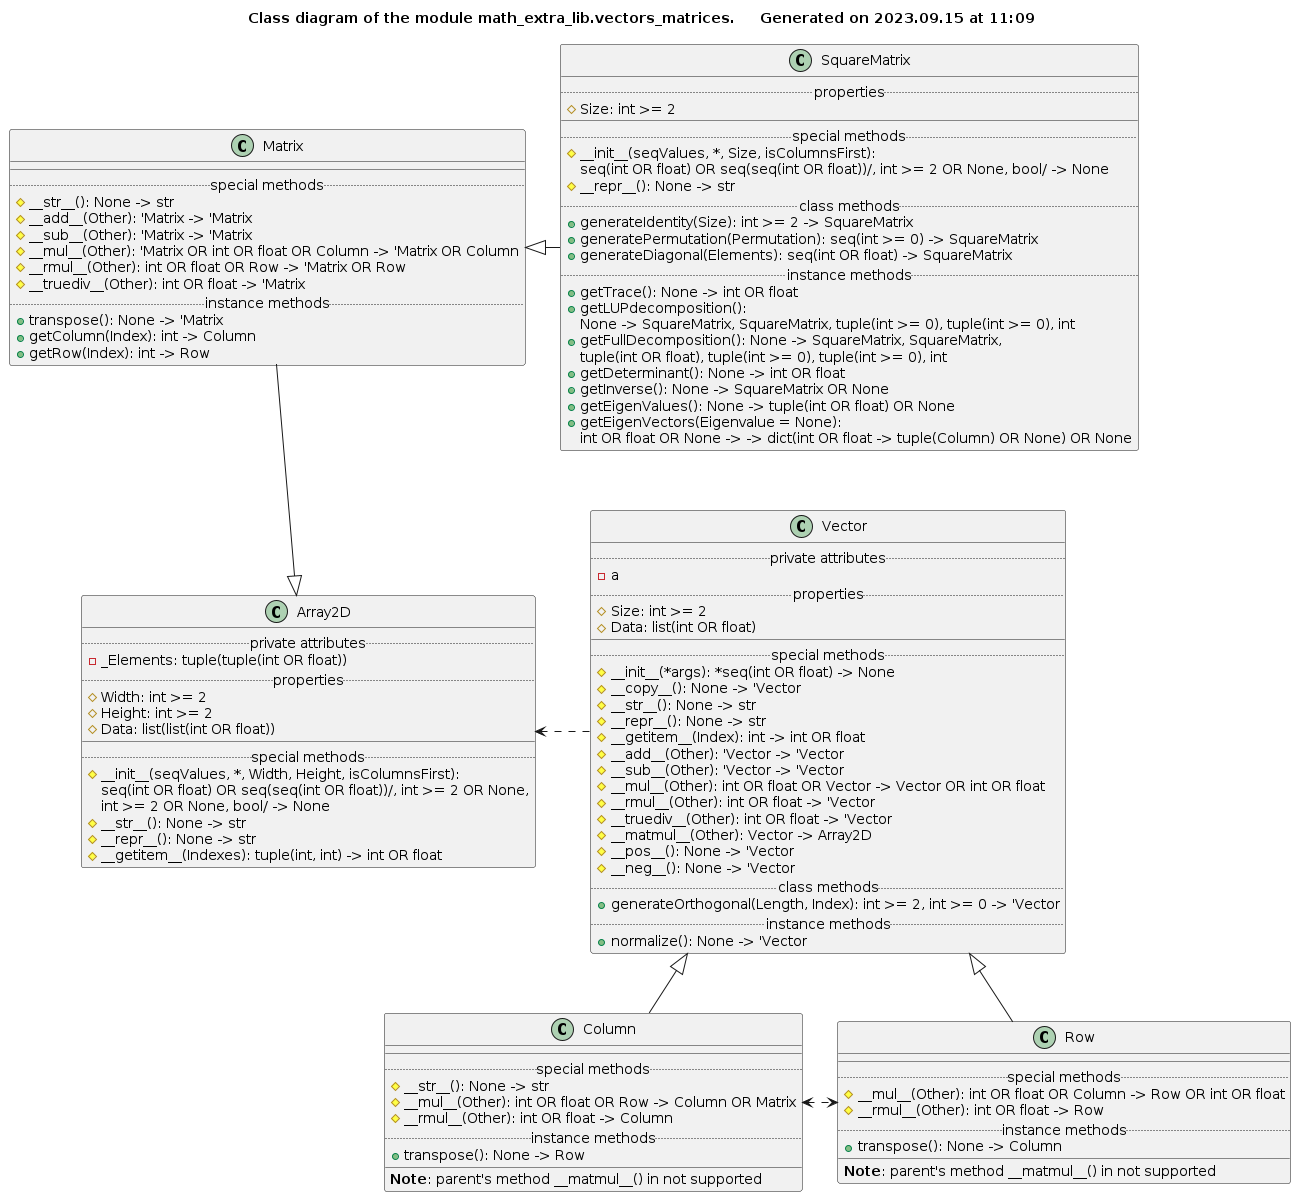
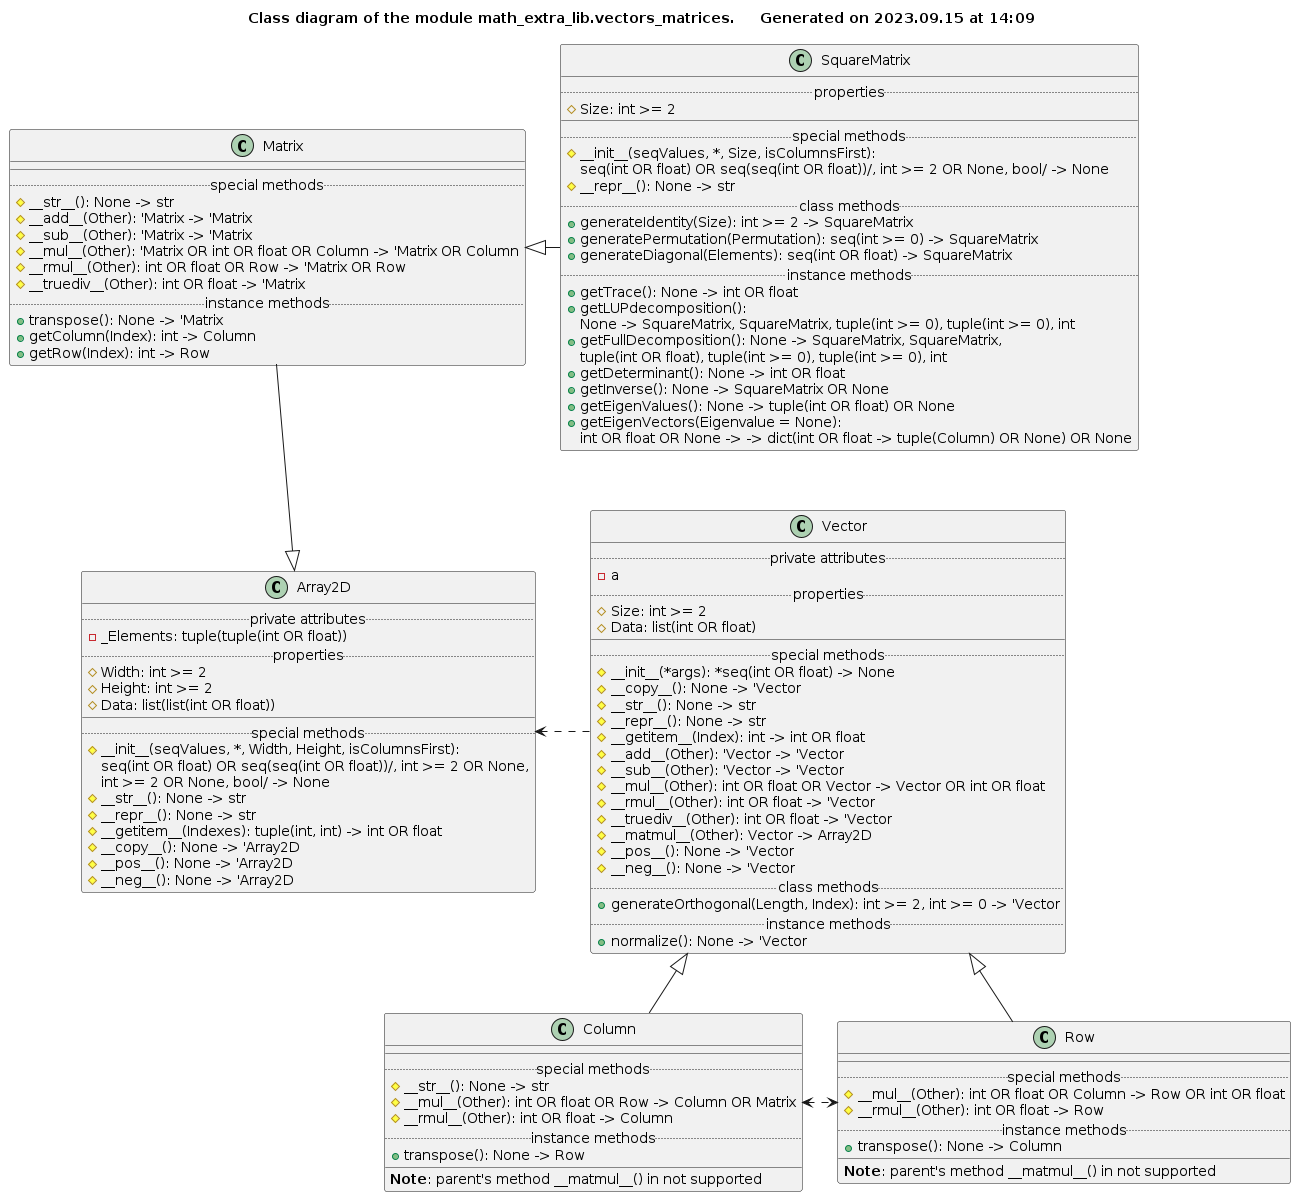
shallow copy, unary plus and minus for matrices

Changed region(s): [[0.0617, 0.4637, 0.4012, 0.7419], [0.3086, 0.68, 0.3395, 0.7419]]

diff --git a/Tests/UT003_vectors_matrices.py b/Tests/UT003_vectors_matrices.py
@@ -6,7 +6,7 @@ Implements unit testing of the module math_extra_lib.vectors_matrices, see TE003
 """
 
 __version__ = "1.0.0.0"
-__date__ = "07-09-2023"
+__date__ = "15-09-2023"
 __status__ = "Testing"
 
 #imports
@@ -1806,6 +1806,57 @@ class Test_Array2D(unittest.TestCase):
                 with self.assertRaises(TypeError):
                     self.TestObject[Col, Row] = 5
                 self.assertListEqual(self.TestObject.Data, Data)
+    
+    def test_copy(self):
+        """
+        Testing the shallow copy of a matrix.
+        """
+        New = copy.copy(self.TestObject)
+        self.assertIs(New.__class__, self.TestClass)
+        self.assertIsNot(New, self.TestObject)
+        self.assertEqual(New.Width, self.TestObject.Width)
+        self.assertEqual(New.Height, self.TestObject.Height)
+        self.assertListEqual(New.Data, self.TestObject.Data)
+        del New
+    
+    def test_pos(self):
+        """
+        Checks the implementation of the unitary plus operation.
+        
+        Test ID: TEST-T-30B
+
+        Covers requirements: REQ-FUN-306
+        """
+        Data = list(self.TestObject.Data)
+        New = +self.TestObject
+        self.assertIs(New.__class__, self.TestClass)
+        self.assertIsNot(New, self.TestObject)
+        self.assertEqual(New.Width, self.TestObject.Width)
+        self.assertEqual(New.Height, self.TestObject.Height)
+        self.assertListEqual(New.Data, Data)
+        self.assertListEqual(self.TestObject.Data, Data)
+        del New
+    
+    def test_neg(self):
+        """
+        Checks the implementation of the unitary negation operation.
+        
+        Test ID: TEST-T-30B
+
+        Covers requirements: REQ-FUN-306
+        """
+        Data = list(self.TestObject.Data)
+        New = -self.TestObject
+        self.assertIs(New.__class__, self.TestClass)
+        self.assertIsNot(New, self.TestObject)
+        self.assertEqual(New.Width, self.TestObject.Width)
+        self.assertEqual(New.Height, self.TestObject.Height)
+        self.assertListEqual(self.TestObject.Data, Data)
+        for Column in range(self.TestObject.Width):
+            for Row in range(self.TestObject.Height):
+                self.assertEqual(New[Column, Row],
+                                                -self.TestObject[Column, Row])
+        del New
     
 class Test_Matrix(Test_Array2D):
     """

diff --git a/vectors_matrices.py b/vectors_matrices.py
@@ -15,7 +15,7 @@ Classes:
 """
 
 __version__= '1.0.0.0'
-__date__ = '07-09-2023'
+__date__ = '15-09-2023'
 __status__ = 'Production'
 
 #imports
@@ -591,6 +591,52 @@ class Array2D:
             raise UT_ValueError(Column, f'in range [{-Height}, {Height - 1}]',
                                                                 SkipFrames = 1)
         return self._Elements[Row][Column]
+    
+    def __copy__(self) -> TArray:
+        """
+        Magic method to hook the shallow copying.
+        
+        Signature:
+            None -> 'Array2D
+        
+        Returns:
+            'Array2D: another instance of the same class with the identical
+                elements
+        
+        Version 1.0.0.0
+        """
+        return self.__class__(self._Elements)
+    
+    def __pos__(self) -> TArray:
+        """
+        Magic method to hook the unitary plus operation.
+        
+        Signature:
+            None -> 'Array2D
+        
+        Returns:
+            'Array2D: another instance of the same class with the identical
+                elements
+        
+        Version 1.0.0.0
+        """
+        return self.__class__(self._Elements)
+    
+    def __neg__(self) -> TArray:
+        """
+        Magic method to hook the unitary plus operation.
+        
+        Signature:
+            None -> 'Array2D
+        
+        Returns:
+            'Array2D: another instance of the same class with the identical
+                elements
+        
+        Version 1.0.0.0
+        """
+        return self.__class__([[-Value for Value in Item]
+                                                    for Item in self._Elements])
     
     #public properties
     

diff --git a/Documentation/References/UD003_vectors_matrices_reference.md b/Documentation/References/UD003_vectors_matrices_reference.md
@@ -1,0 +1,80 @@
+# Module math_extra_lib.vectors_matrices Reference
+
+## Scope
+
+This document describes the intended usage, design and implementation of the functionality implemented in the module **vectors_matrices** of the library **math\_extra\_lib**. The API reference is also provided.
+
+The functional objects covered in this document are:
+
+* class **Array2D**
+* class **Vector**
+* class **Column**
+* class **Row**
+* class **Matrix**
+* class **SquareMatrix**
+
+## Intended Use and Functionality
+
+| Operation                   | Requirements / Limitations | Result       |
+| --------------------------- | -------------------------- | ------------ |
+| Vector + Vector             | S1 = S2                    | Vector       |
+| Vector - Vector             | S1 = S2                    | Vector       |
+| Vector * scalar             | N.A.                       | Vector       |
+| scalar * Vector             | N.A.                       | Vector       |
+| Vector / scalar             | scalar <> 0                | Vector       |
+| Vector * Vector             | S1 = S2                    | scalar       |
+| Vector @ Vector             | N. A.                      | Array2D      |
+| Column + Column             | S1 = S2                    | Column       |
+| Column - Column             | S1 = S2                    | Column       |
+| Column * scalar             | N.A.                       | Column       |
+| scalar * Column             | N.A.                       | Column       |
+| Column / scalar             | scalar <> 0                | Column       |
+| Row * Column                | S1 = S2                    | scalar       |
+| Column * Row                | N.A.                       | Matrix       |
+| Row + Row                   | S1 = S2                    | Row          |
+| Row - Row                   | S1 = S2                    | Row          |
+| scalar * Row                | N.A.                       | Row          |
+| Row * scalar                | N.A.                       | Row          |
+| Row / scalar                | scalar <> 0                | Row          |
+| Matrix + Matrix             | W1 = W2 and H1 = H2        | Matrix       |
+| Matrix + SquareMatrix       | W1 = H1 = S2               | SquareMatrix |
+| SquareMatrix + Matrix       | S1 = W2 = H2               | SquareMatrix |
+| Matrix - Matrix             | W1 = W2 and H1 = H2        | Matrix       |
+| Matrix - SquareMatrix       | W1 = H1 = S2               | SquareMatrix |
+| SquareMatrix - Matrix       | S1 = W2 = H2               | SquareMatrix |
+| scalar * Matrix             | N.A.                       | Matrix       |
+| Matrix * scalar             | N.A.                       | Matrix       |
+| Matrix / scalar             | scalar <> 0                | Matrix       |
+| Matrix * Column             | W1 = S2                    | Column       |
+| Row * Matrix                | S1 = H2                    | Row          |
+| Matrix * Matrix             | W1 = H2 AND H1 <> W1       | Matrix       |
+| Matrix * Matrix             | W1 = H2 AND H1 = W1        | SquareMatrix |
+| Matrix * SquareMatrix       | W1 = S2 AND H1 <> S2       | Matrix       |
+| Matrix * SquareMatrix       | W1 = S2 AND H1 = S2        | SquareMatrix |
+| SquareMatrix * Matrix       | S1 = H2 AND S1 <> W2       | Matrix       |
+| SquareMatrix * Matrix       | S1 = H2 AND S1 = W2        | SquareMatrix |
+| SquareMatrix + SquareMatrix | S1 = S2                    | SquareMatrix |
+| SquareMatrix - SquareMatrix | S1 = S2                    | SquareMatrix |
+| SquareMatrix * scalar       | N.A.                       | SquareMatrix |
+| scalar * SquareMatrix       | N.A.                       | SquareMatrix |
+| SquareMatrix / scalar       | scalar <> 0                | SquareMatrix |
+| SquareMatrix * Column       | S1 = S2                    | Column       |
+| Row * SquareMatrix          | S1 = S2                    | Row          |
+
+## Design and Implementation
+
+![Class diagram](..\UML\vectors_matrices\vectors_matrices_classes.png)
+
+## API Reference
+
+### Class Array2D
+
+### Class Vector
+
+### Class Column
+
+### Class Row
+
+### Class Matrix
+
+### Class SquareMatrix

diff --git a/Documentation/References/UD001_polynomial_reference.md b/Documentation/References/UD001_polynomial_reference.md
@@ -1,4 +1,4 @@
-# Module math_extra_lib Reference
+# Module math_extra_lib.polynomial Reference
 
 ## Scope
 
@@ -106,7 +106,7 @@ An instance of this class supports index access to the individual coefficients (
 
 An instance is also callable returning the value of the polynomial at the passed value of the argument.
 
-__*Instantiation*__:
+***Instantiation***:
 
 \_\_**init**\_\_(*args)
 
@@ -127,11 +127,11 @@ __*Instantiation*__:
 
 Stores the passed coefficients in an internal state. All passed arguments must be real numbers, which are treated as the polynomial coefficients sorted in the ascending order of the power. The last positional argument must be non-zero.
 
-__*Attributes*__:
+***Attributes***:
 
 *Degree*: read-only property, **int** >= 1 - the degree of the polynomial
 
-__*Class methods*__:
+***Class methods***:
 
 **fromRoots**(*args)
 
@@ -152,9 +152,9 @@ __*Class methods*__:
 
 Creates a polynomial from its roots, i.e. performs the inverse of the factorization: (x-x_1)\*...\*(x-x_N) -> a_0 + a_1 \* x + a_2 \* x^2 + ... + a_N * x^N.
 
-__*Methods*__:
+***Methods***:
 
-**getCoefficients()**
+**getCoefficients**()
 
 *Signature*:
 
@@ -226,7 +226,7 @@ Implementation of a rational function, i.e. a ratio of two polynomials. This cla
 
 An instance is also callable returning the value of the function at the passed value of the argument.
 
-__*Instantiation*__:
+***Instantiation***:
 
 \_\_**init**\_\_(Divident, Divisor)
 
@@ -248,7 +248,7 @@ __*Instantiation*__:
 
 Creates the internally stored instances of the **Polynomial** class to store the respective polynomials.
 
-__*Methods*__:
+***Methods***:
 
 **getCoefficients**()
 

diff --git a/Documentation/References/index.md b/Documentation/References/index.md
@@ -2,3 +2,4 @@
 
 * Module [polynomial](./UD001_polynomial_reference.md)
 * Module [special_functions](./UD002_special_functions.md)
+* Module [vectors_matrices](./UD003_vectors_matrices_reference.md)
